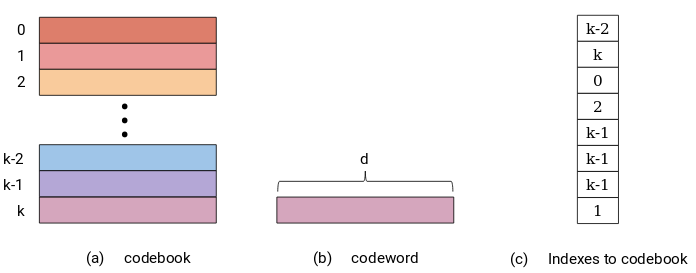
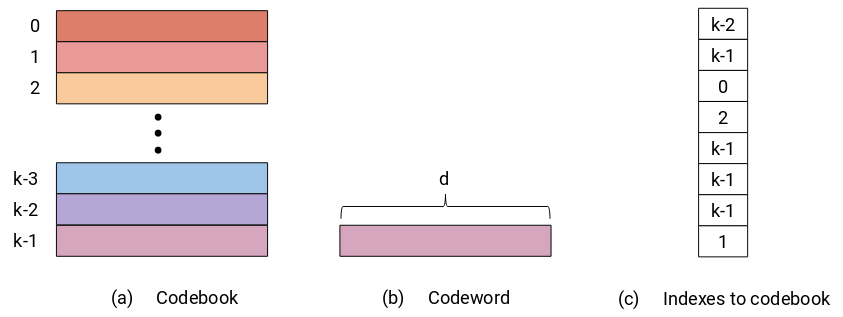
Update images

diff --git a/_posts/2019-10-01-kill-the-bits.md b/_posts/2019-10-01-kill-the-bits.md
@@ -40,7 +40,7 @@ The codewords are derived from data, and the more frequent components can be qua
 The quantization process itself is usually done using one of the clustering techniques, such as <a href="https://en.wikipedia.org/wiki/K-means_clustering" target="_blank">weighted $k$-means</a> in the case of "And the Bit Goes Down"<a href="#kill-the-bits-ref">[1]</a>.
 
 <center>
-<img src="{{ "/img/blog/kill-the-bits/codebook2.png" | prepend: site.url }}" width="90%">
+<img src="{{ "/img/blog/kill-the-bits/codebook.png" | prepend: site.url }}" width="90%">
 </center>
 
 <a class="anchor" id="codebook-generation"></a>
@@ -84,7 +84,7 @@ The weight $W_{fc} \in R^{C_{in} \times C_{out}}$ of the fully-connected layer i
 Generated subvectors are utilized for quantization and the generation of codewords within the codebook.
 
 <center>
-<img src="{{ "/img/blog/kill-the-bits/fc-split2.png" | prepend: site.url }}" width="35%" >
+<img src="{{ "/img/blog/kill-the-bits/fc-split.png" | prepend: site.url }}" width="35%" >
 </center>
 
 *Figure 2: Visualization of weight split into subvectors in a fully-connected layer.*
